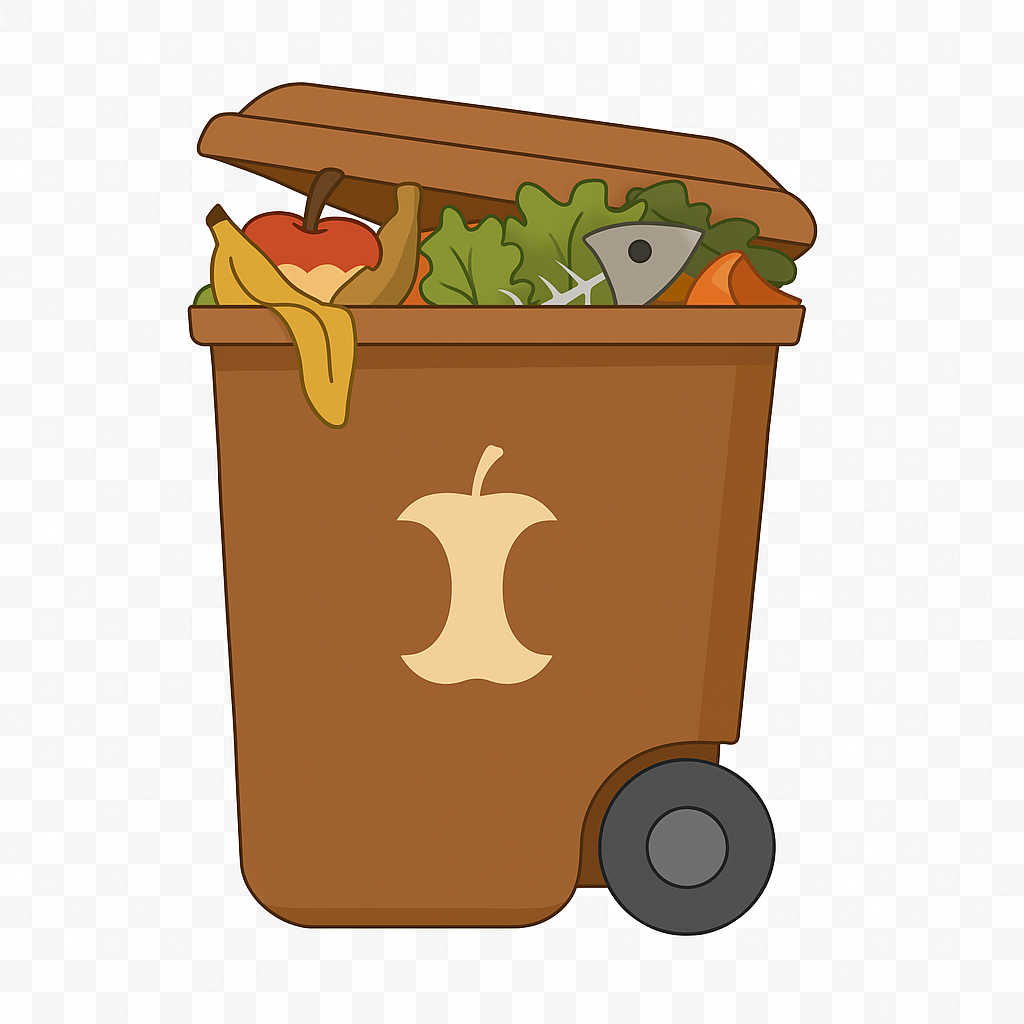
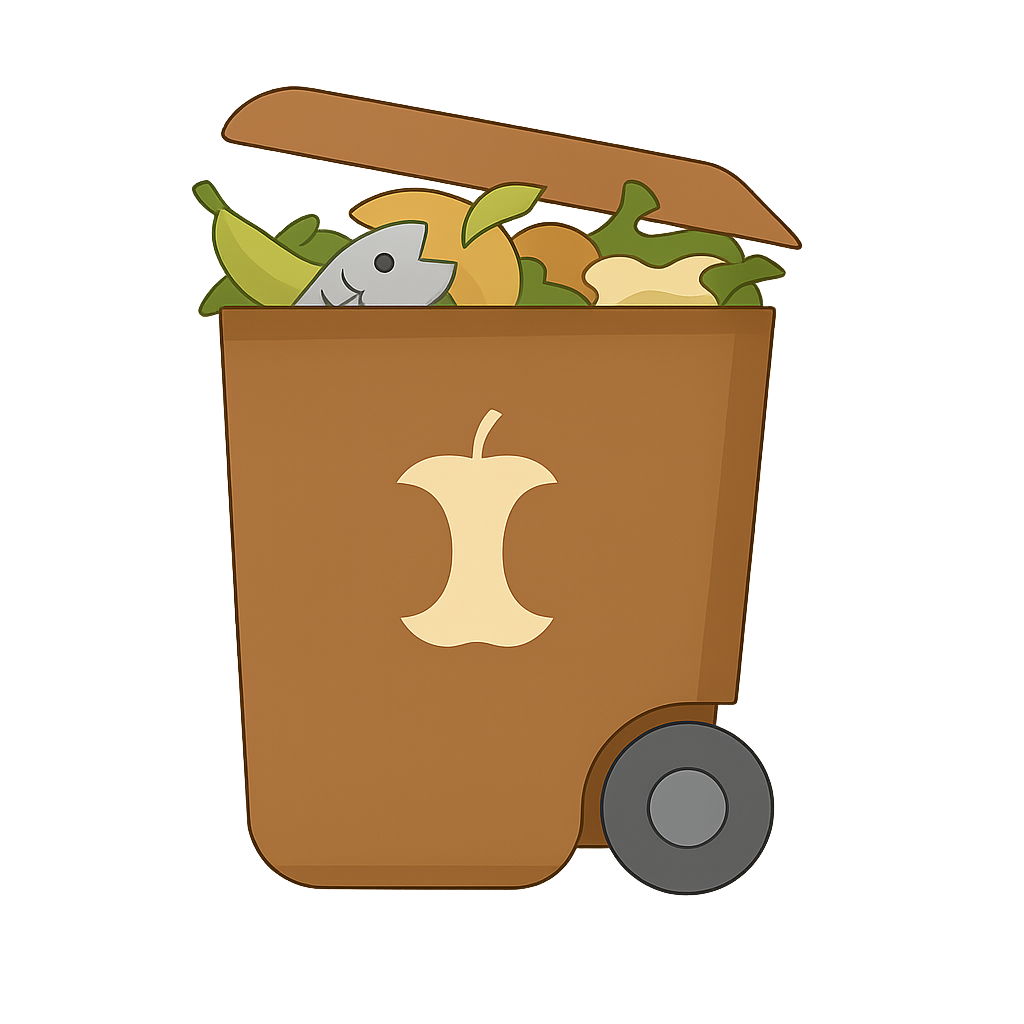
Add food bin type and associated garbage mechanics in GameScene; update textures for food bins and garbage items.

Changed region(s): [[0.1875, 0.0625, 0.8125, 0.9375], [0.375, 0.4062, 0.5625, 0.6875]]

diff --git a/src/scenes/GameScene.ts b/src/scenes/GameScene.ts
@@ -42,6 +42,7 @@ export class GameScene extends Phaser.Scene {
     'garbage-apple',
     'garbage-bottle',
     'garbage-bag',
+    'garbage-banana',
   ]; // Types of garbage
   private garbagePieces: Phaser.GameObjects.Sprite[] = []; // Active garbage pieces
   private garbageTimer!: Phaser.Time.TimerEvent; // Timer for spawning garbage
@@ -86,16 +87,20 @@ export class GameScene extends Phaser.Scene {
     this.load.image('bin-yellow-full', 'bin-green-full.png'); // Using same image for now
     this.load.image('bin-plastic-empty', 'bin-plastic-empty.png'); // Empty plastic bin
     this.load.image('bin-plastic-full', 'bin-plastic-full.png'); // Full plastic bin
+    this.load.image('bin-food-empty', 'bin-food-empty.png'); // Empty food bin
+    this.load.image('bin-food-full', 'bin-food-full.png'); // Full food bin
     this.load.image('garbage-can', 'garbage-can.png'); // Garbage can image
     this.load.image('garbage-apple', 'garbage-apple.png'); // Apple garbage image
     this.load.image('garbage-bottle', 'garbage-bottle.png'); // Bottle garbage image
     this.load.image('garbage-bag', 'garbage-bag.png'); // Bag garbage image
+    this.load.image('garbage-banana', 'garbage-banana.png'); // Banana garbage image
   }
 
   create() {
     // Initialize bin type accepted garbage
-    this.binAcceptedGarbage.set('generic', ['garbage-can', 'garbage-apple']); // Generic accepts only non-plastic garbage
+    this.binAcceptedGarbage.set('generic', ['garbage-can']); // Generic accepts only cans
     this.binAcceptedGarbage.set('plastic', ['garbage-bottle', 'garbage-bag']); // Plastic only accepts bottles and bags
+    this.binAcceptedGarbage.set('food', ['garbage-apple', 'garbage-banana']); // Food only accepts apples and bananas
 
     // Create the truck sprite
     this.truck = this.add.sprite(
@@ -142,9 +147,9 @@ export class GameScene extends Phaser.Scene {
     }
 
     // Create the 3 bin sprites at each home position
-    const binTypes = ['plastic', 'generic', 'generic']; // First bin is plastic, others are generic
-    const binEmptyTextures = ['bin-plastic-empty', 'bin-green', 'bin-green']; // First bin uses plastic texture
-    const binFullTextures = ['bin-plastic-full', 'bin-green-full', 'bin-green-full']; // First bin uses plastic full texture
+    const binTypes = ['plastic', 'food', 'generic']; // First is plastic, second is food, third is generic
+    const binEmptyTextures = ['bin-plastic-empty', 'bin-food-empty', 'bin-green']; // Updated textures
+    const binFullTextures = ['bin-plastic-full', 'bin-food-full', 'bin-green-full']; // Updated textures
 
     for (let i = 0; i < 3; i++) {
       const bin = this.add.sprite(
@@ -586,6 +591,10 @@ export class GameScene extends Phaser.Scene {
           bin.setTexture('bin-plastic-empty');
           // Also update the animation sprite to show empty bin
           animBin.setTexture('bin-plastic-empty');
+        } else if (binType === 'food') {
+          bin.setTexture('bin-food-empty');
+          // Also update the animation sprite to show empty bin
+          animBin.setTexture('bin-food-empty');
         } else {
           const binIndex = this.bins.indexOf(bin);
           const binColors = ['bin-green', 'bin-blue', 'bin-yellow'];
@@ -634,6 +643,8 @@ export class GameScene extends Phaser.Scene {
       // Use empty bin texture based on type
       if (binType === 'plastic') {
         bin.setTexture('bin-plastic-empty');
+      } else if (binType === 'food') {
+        bin.setTexture('bin-food-empty');
       } else {
         const binIndex = this.bins.indexOf(bin);
         const binColors = ['bin-green', 'bin-blue', 'bin-yellow'];
@@ -643,6 +654,8 @@ export class GameScene extends Phaser.Scene {
       // Use full bin texture based on type
       if (binType === 'plastic') {
         bin.setTexture('bin-plastic-full');
+      } else if (binType === 'food') {
+        bin.setTexture('bin-food-full');
       } else {
         const binIndex = this.bins.indexOf(bin);
         const binColorsFull = ['bin-green-full', 'bin-blue-full', 'bin-yellow-full'];
